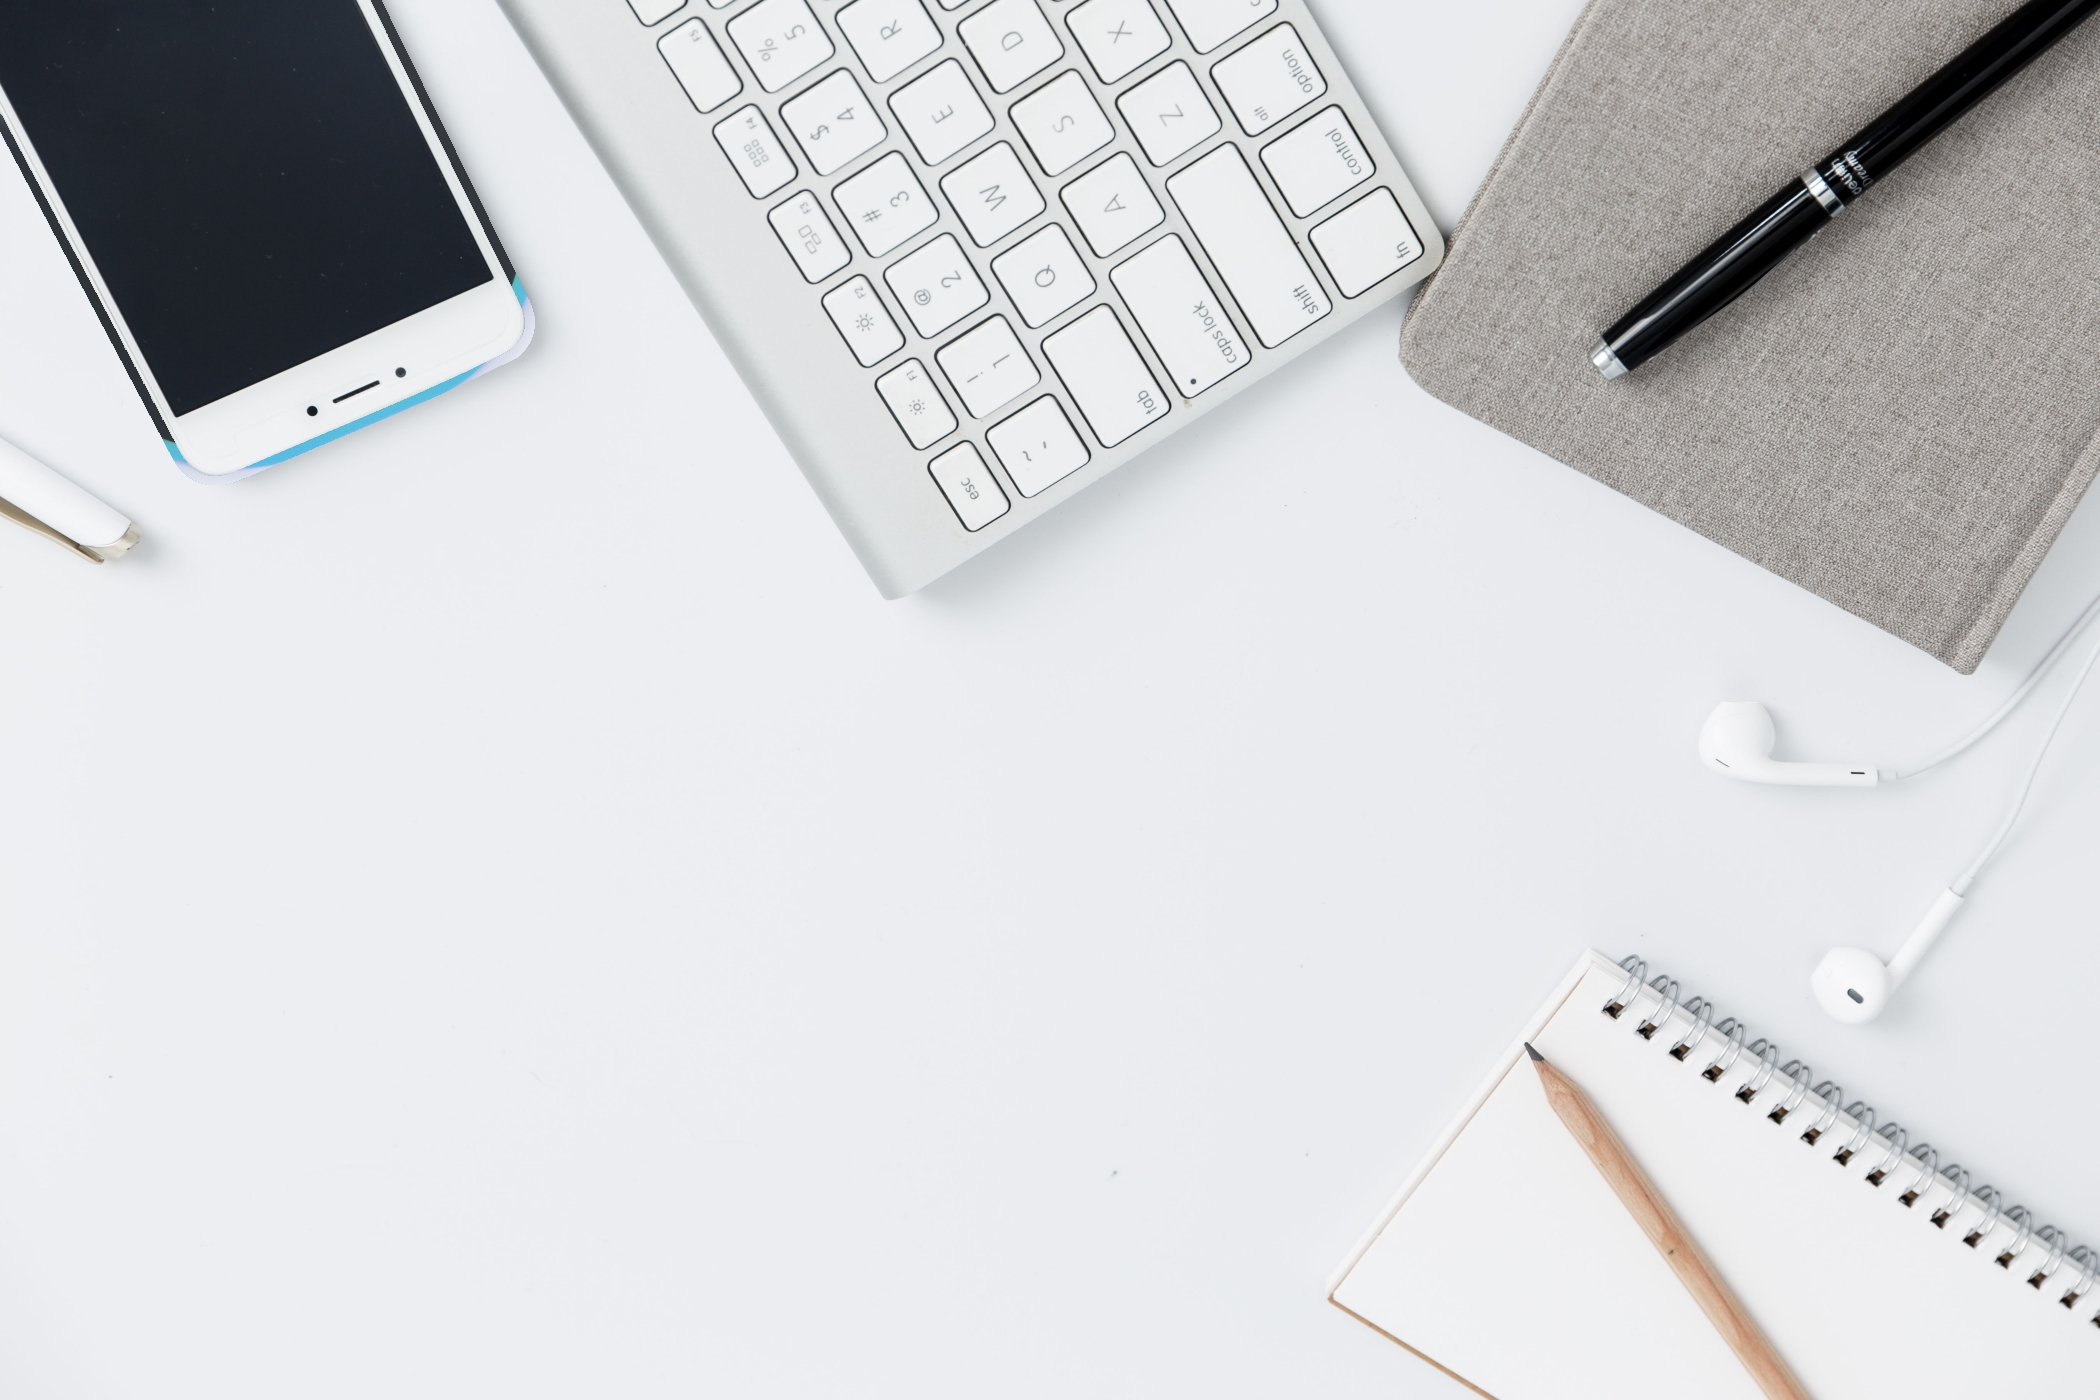
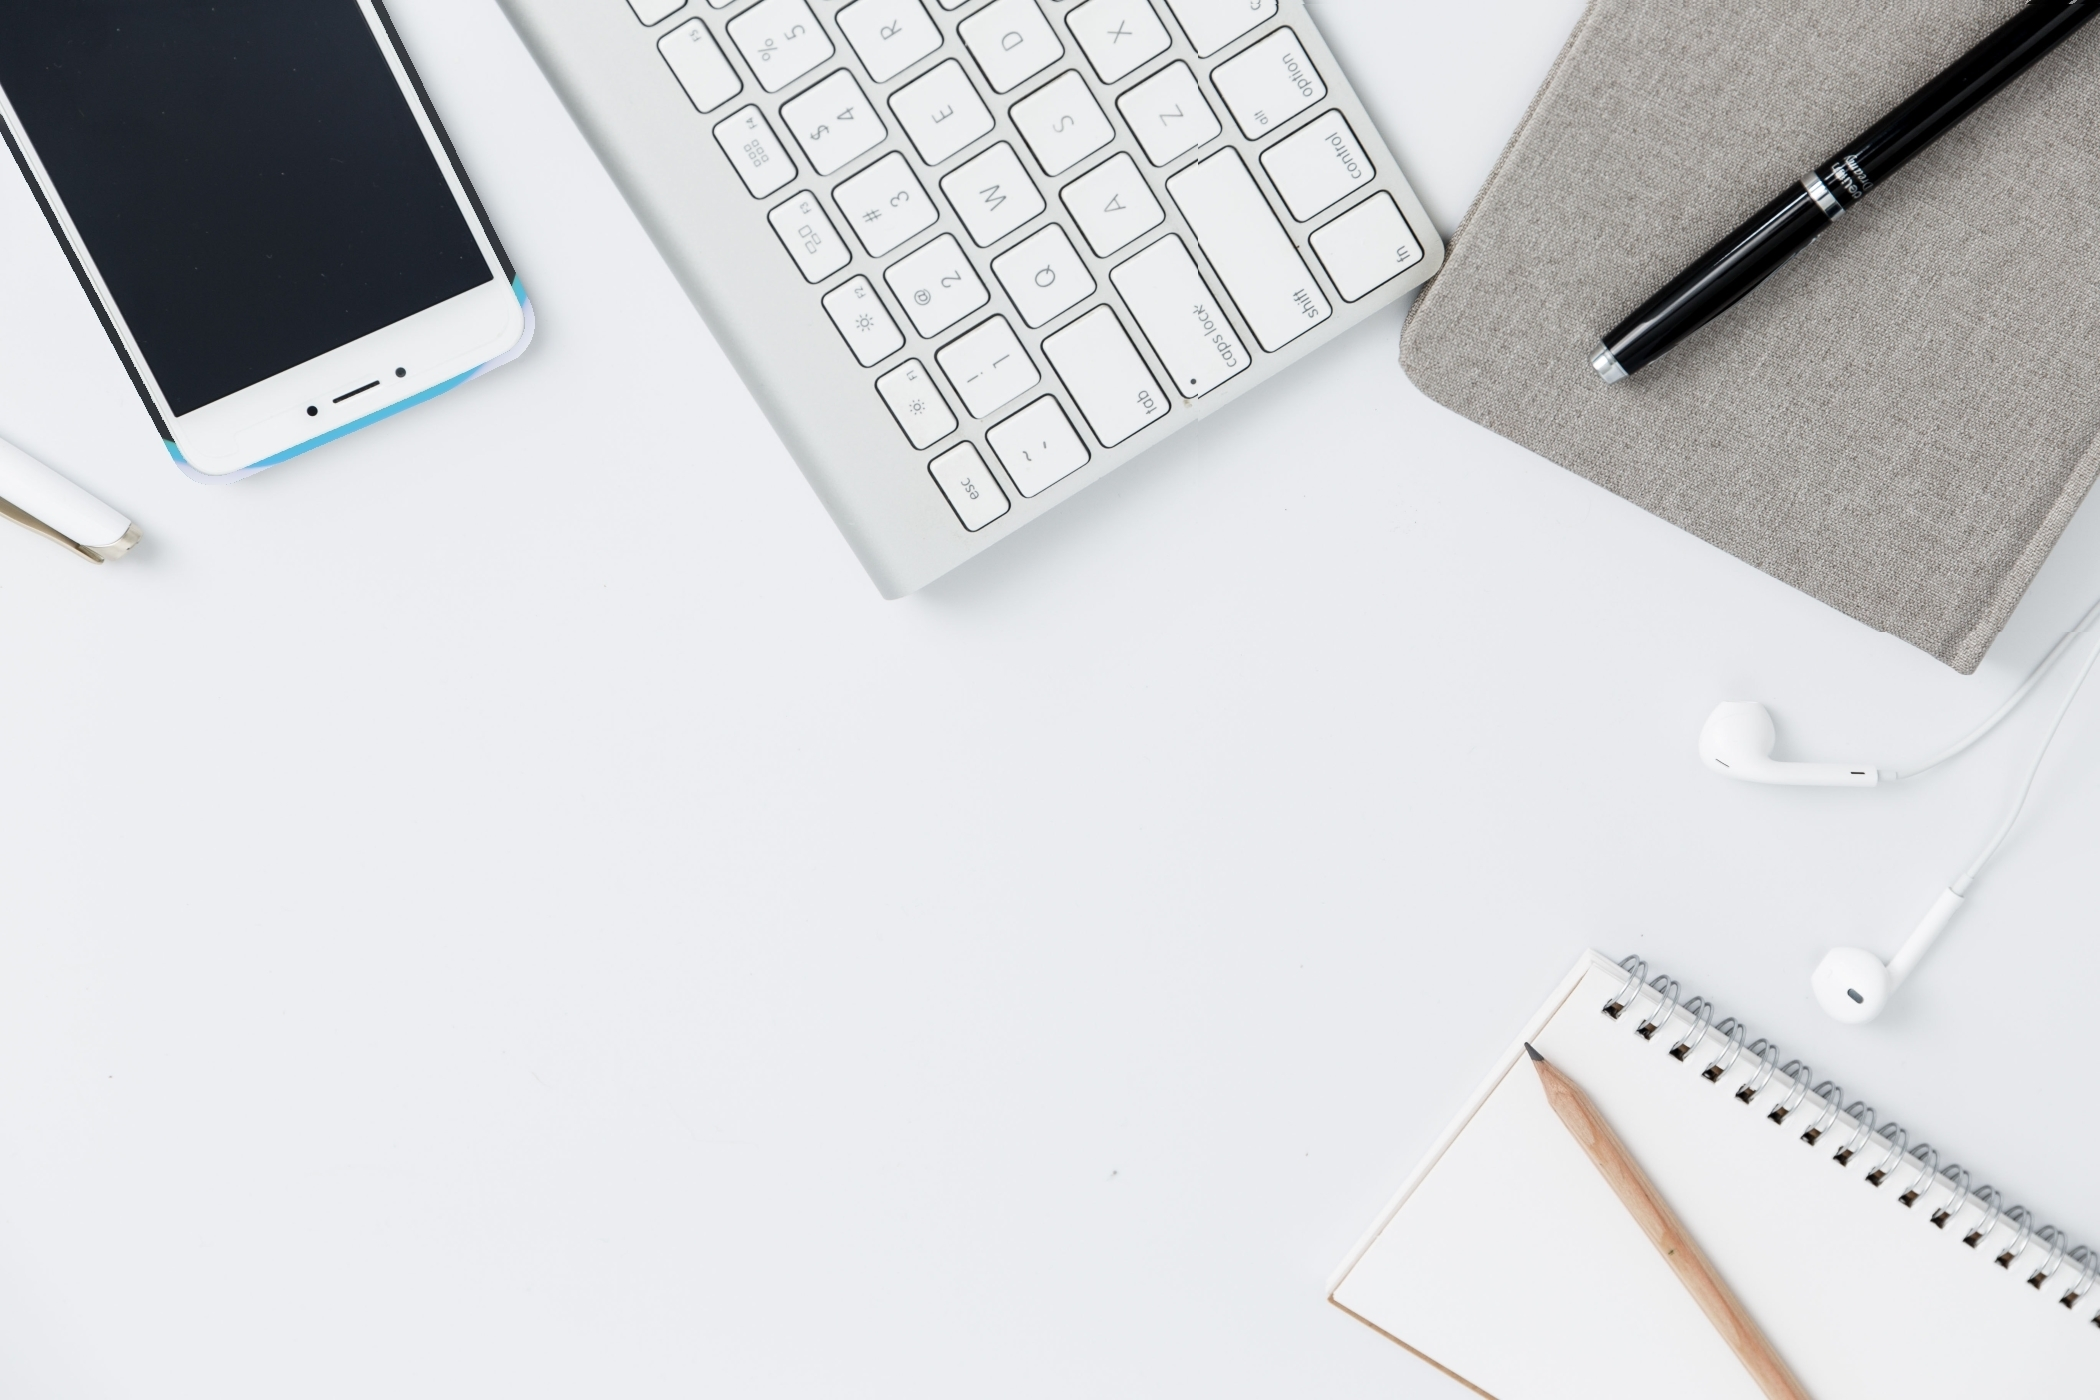
a bit extra
just for some sizing stuff

Changed region(s): [[0.5571, 0.0, 1.0, 0.4607]]

diff --git a/css/home.css b/css/home.css
@@ -6,7 +6,7 @@
   position: absolute;
   top: 0;
   margin: 0;
-  background: url("images/deskbg5.jpg") 50% 70%;
+  background: url("images/deskbg5.jpg") 100% 70%;
   background-repeat: no-repeat;
   height: 100%;
   width: 100%;
@@ -222,4 +222,9 @@ video {
   clip: rect(0, 900px, 0, 0);
   animation: noise-anim-2 3s 1.333 linear alternate-reverse;
   animation-delay: 2.5s;
+}
+@media only screen and (max-width: 520px) {
+    body {
+        background-color: lightblue;
+    }
 }
